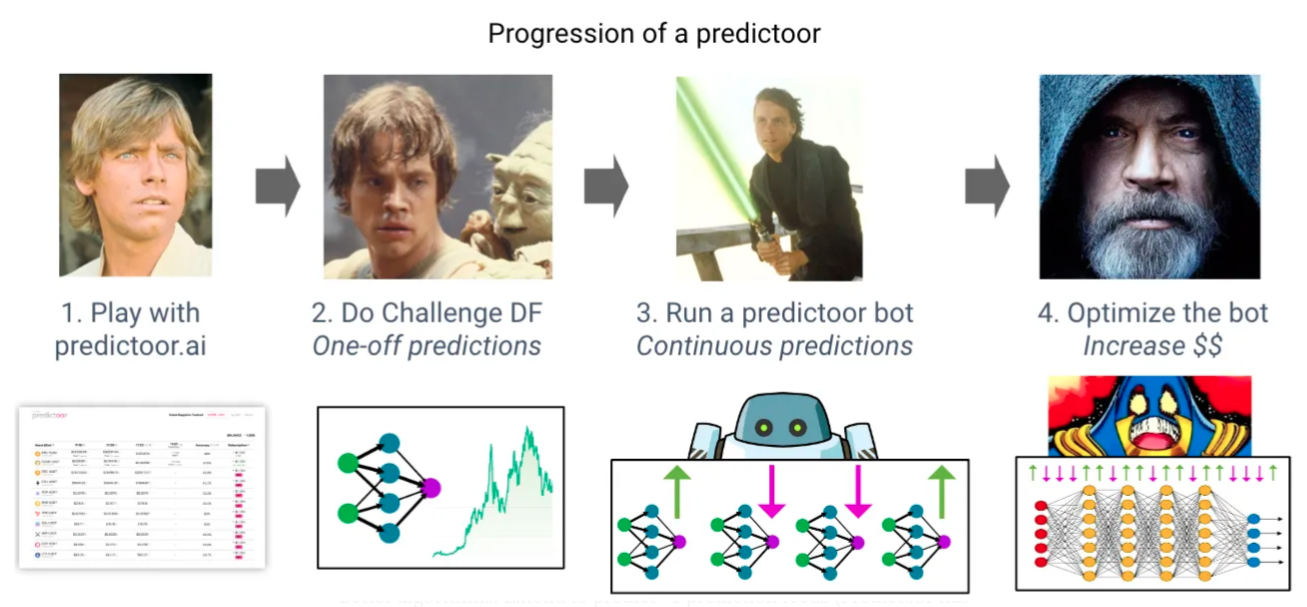
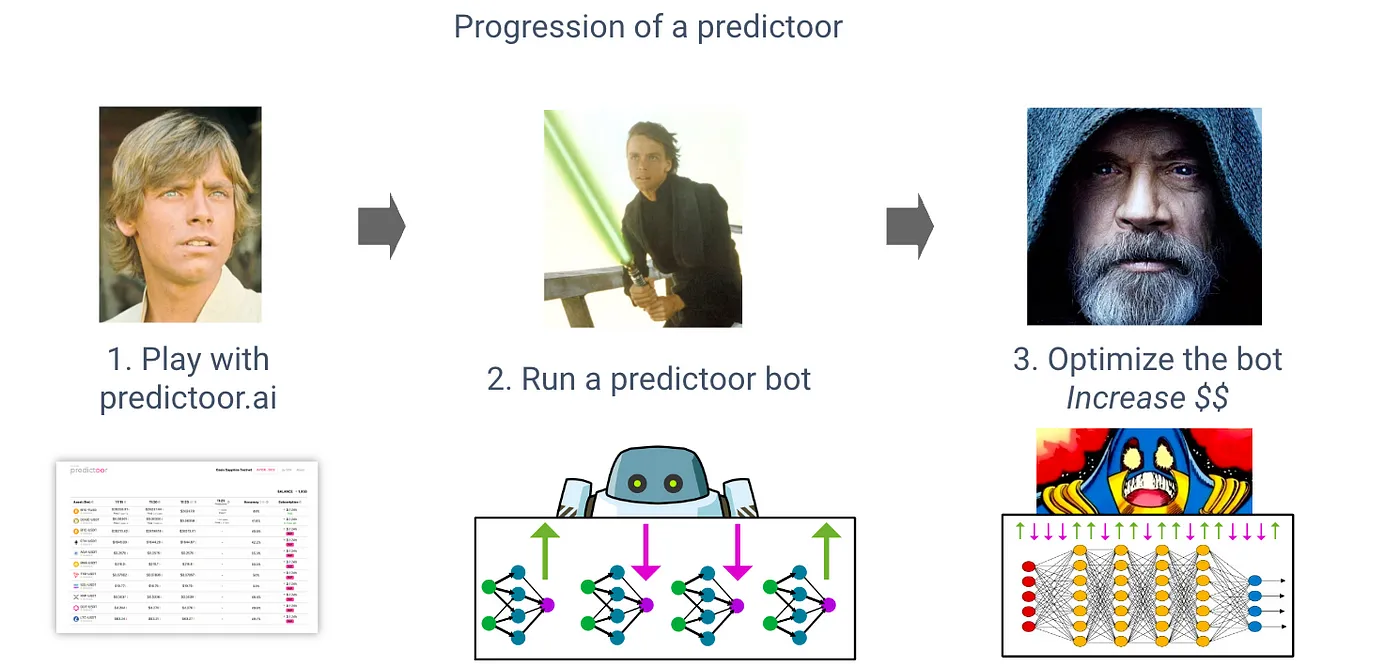
Fix #1354: Pdr: remove Challenge DF in progression of a predictoor

diff --git a/predictoor/pdr-earn.md b/predictoor/pdr-earn.md
@@ -7,8 +7,7 @@ If you have background in AI, ML, data science or statistics (and these overlap!
 
 Typical steps as a Predictoor:
 1. **Play with predictoor.ai.** Go to [predictoor.ai](https://predictoor.ai) to build intuition: observe the free feed, perhaps buy a few feeds, and watch them change over time.
-1. **Do Challenge DF: one-off predictions.** Then, practice making accurate AI/ML based predictions via [Challenge Data Farming](https://df.oceandao.org/challenge-df). Submissions are due Wednesdays at midnight, for ETH price predictions 5 min, 10 min, …, 60 min ahead. Every week, 5000 OCEAN prize money is distributed to the three lowest-error submissions.
-1. **Run a predictoor bot: continuous predictions.** Follow the steps in the [Run a Predictoor Bot README](https://github.com/oceanprotocol/pdr-backend/blob/main/READMEs/predictoor.md). You’ll start by deploying a bot locally that submits a random prediction every 5 minutes. Then you’ll add AI/ML model predictions. Then you’ll do it on a remote testnet staking fake OCEAN. Finally, you’ll do it on mainnet staking real OCEAN.
+1. **Run a predictoor bot.** Follow the steps in the [Predictoor README](https://github.com/oceanprotocol/pdr-backend/blob/main/READMEs/predictoor.md). You’ll start by running simulations with AI-powered predictions. Then you'll run a predictoor bot on a remote testnet staking fake OCEAN. Finally, you’ll do it on mainnet staking real OCEAN.
 1. **Optimize the bot.** Improve model prediction accuracy via more data and better algorithms. Extend to predict >1 prediction feeds (Predictoor has many). Wash, rinse, repeat.  
 
 The actions as a predictoor give the following ways to earn:  
@@ -16,9 +15,6 @@ The actions as a predictoor give the following ways to earn:
 * **Stake reshuffling.** At an epoch, incorrect predictoors have their stake slashed. This slashed stake is distributed to the correct predictoors pro-rata on their stake.
 * **Predictoor DF.** The third phase of Predictoor rollout will have an incentives program that amounts to additional earning for predictoors. 37,000 OCEAN/week rewards.
 Don’t expect to be 100% accurate in your up/down predictions. Marginally better than 50% might be enough, and be skeptical if you’re greatly above 50%, you probably have a bug in your testing.
-
-Predictoors can earn even more, via complementary actions:
-* **[Challenge DF](../data-farming/df-intro.md#what-is-challenge-df).** Predict accurately for weekly prizes. 
 
 Every week there’s [150,000 total OCEAN rewards](../data-farming/df-intro.md#reward-schedule) for Ocean Data Farming. This will increase in early 2024, and more yet later.
 
@@ -34,7 +30,7 @@ You can make \$ by buying prediction feeds, and using it as an input — as “a
 
 Typical steps as a Trader:
 1. **Play with dapp, and trade.** First, go to [predictoor.ai](https://test.predictoor.ai/) to build intuition: observe the free feed, perhaps buy a few feeds, and watch them change over time. In a second window, have Binance open. Employ a baseline trading strategy: when a new Predictoor prediction pops in, buy if “↑”, and sell or short if “↓”; exit the position 5 min later.  
-1. **Run a trader bot.** Follow the steps in the [Trader README](https://github.com/oceanprotocol/pdr-backend/blob/main/READMEs/trader.md). You’ll start by deploying a bot locally that follows the baseline trading strategy: when a new Predictoor prediction pops in, it buys if “↑”, and sells if “↓”. Then you’ll do it on a remote testnet with fake tokens. Finally, you’ll do it on mainnet with real tokens on a real exchange.  
+1. **Run a trader bot.** Follow the steps in the [Trader README](https://github.com/oceanprotocol/pdr-backend/blob/main/READMEs/trader.md). You’ll start by running simulations with AI-powered predictions. It follows the baseline trading strategy: when a new Predictoor prediction pops in, it buys if “↑”, and sells if “↓”. Then you’ll do run a trader bot on a remote testnet with fake tokens. Finally, you’ll do it on mainnet with real tokens on a real exchange.
 1. **Improve & extend.** Improve trading performance via more sophisticated trading strategies. This is a universe all of its own! Extend to >1 prediction feeds (Predictoor has many). Wash, rinse, repeat.  
 
 The actions as a trader offer a single yet powerful way to earn: **trading revenue.** Buy low and sell high! (And the opposite with shorting)  
